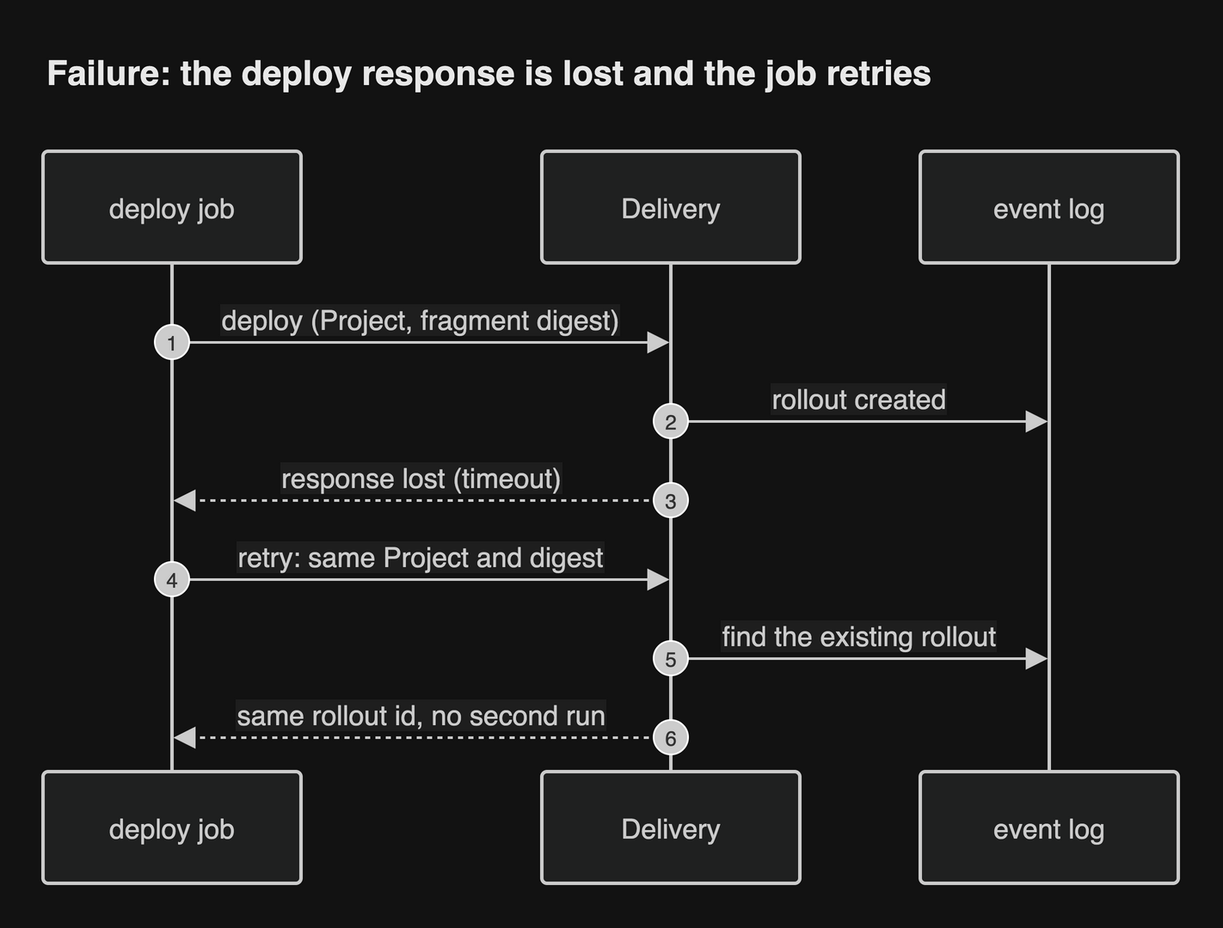
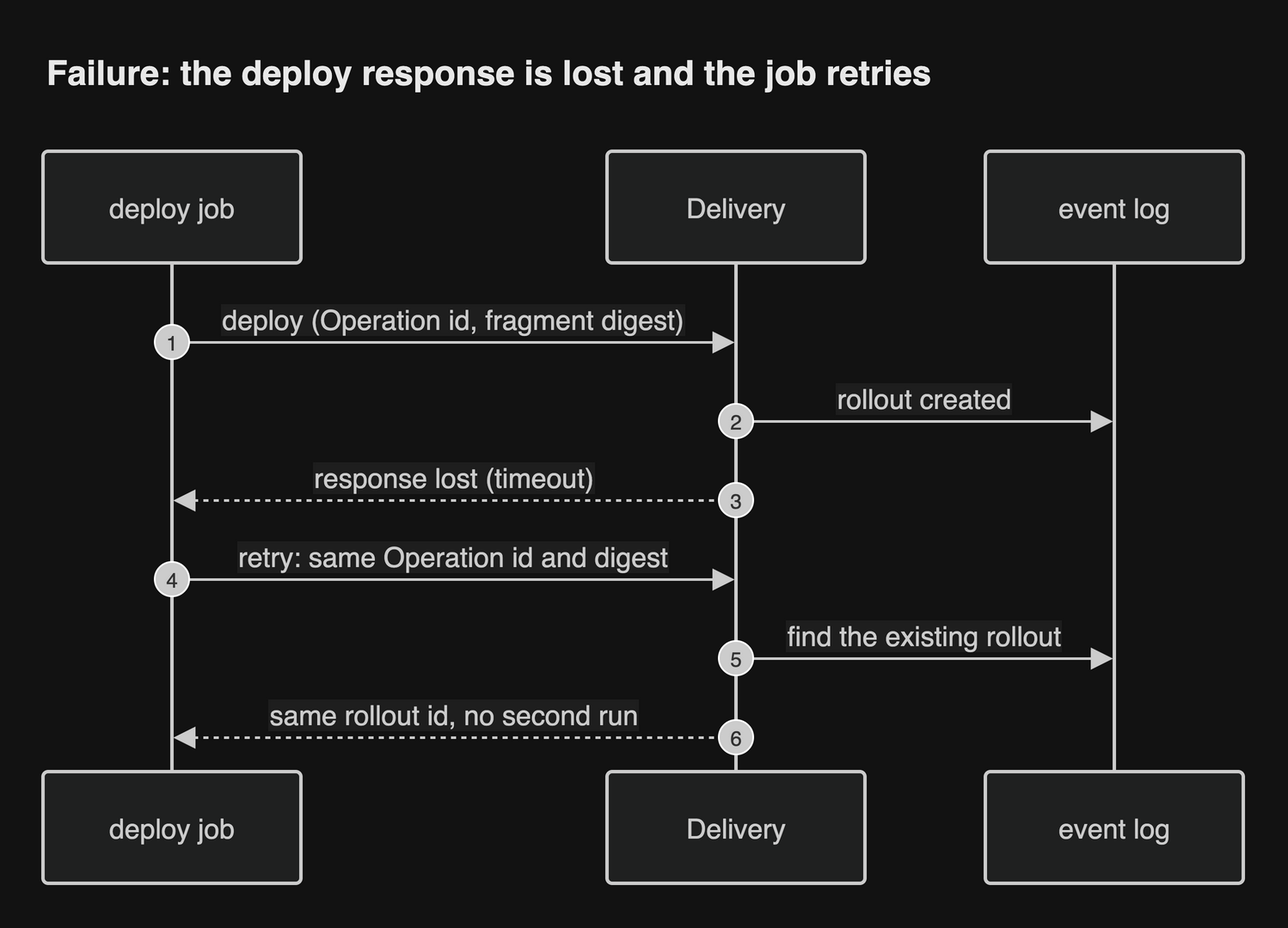
docs(records): reconcile the stale prose, pages and diagrams with the settled records

diff --git a/docs/diagrams/specs.py b/docs/diagrams/specs.py
@@ -132,8 +132,8 @@ sequence("seq-drift-check", "Nightly drift check",
           ("opt", "they differ", [("S", "G", "report the drift as an issue or a check")])])
 sequence("seq-fail-retry", "Failure: the deploy response is lost and the job retries",
          [("CI", "deploy job"), ("S", "Delivery"), ("DB", "event log")],
-         [("CI", "S", "deploy (Project, fragment digest)"), ("S", "DB", "rollout created"),
-          ("S", "CI", "response lost (timeout)", "reply"), ("CI", "S", "retry: same Project and digest"),
+         [("CI", "S", "deploy (Operation id, fragment digest)"), ("S", "DB", "rollout created"),
+          ("S", "CI", "response lost (timeout)", "reply"), ("CI", "S", "retry: same Operation id and digest"),
           ("S", "DB", "find the existing rollout"), ("S", "CI", "same rollout id, no second run", "reply")])
 sequence("seq-fail-stream", "Failure: the event stream drops and resumes",
          [("CI", "deploy job"), ("S", "Delivery"), ("DB", "event log")],
@@ -302,7 +302,7 @@ g.person("op", "Operator", "In a browser")
 g.group("ek", "estate-kit")
 g.system("cli", "estate-kit CLI", "Validates and plans offline", kind="container", tech="Rust, one binary", parent="ek")
 g.system("ui", "UI", "Rollouts, Projects, hosts", kind="container", tech="Vue, embedded in Observation", parent="ek")
-g.system("obs", "Observation", "Read-only views of what runs; creates and expires Silences", kind="container",
+g.system("obs", "Observation", "Read-only views of what runs; Silences and the cost ledger's rows", kind="container",
          tech="Rust, its own binary and Deployment", parent="ek")
 g.system("svc", "Delivery", "Composes, dry-runs, signs, streams rollouts, runs the Release Gate", kind="container",
          tech="Rust, links the compiler", parent="ek")

diff --git a/docs/design/code-shape-and-speed.md b/docs/design/code-shape-and-speed.md
@@ -290,7 +290,7 @@ A rule that no check can hold, such as a review rule, is written without a bold 
 | Prune protection test | A rendered namespace, a claim whose volume is `recoverable` or `irreplaceable`, a Mailbox, a bucket, a database or a rendered CRD lacks the prune-disabled mark, or a render in which a rendered CRD disappeared leaves its custom resources removable | [105](../decisions/0105-removal-is-a-retire-lifecycle-with-durable-retirement-tombstones-and-declared-moves-and-prune-protected-kinds-never-prune.md), [119](../decisions/0119-a-rendered-crd-is-prune-protected-and-retirement-tombstones-survive-a-crd-drop.md) | Render test, every run | planned, [#63](https://github.com/JorisJonkers-dev/estate-kit/issues/63) |
 | Retire refusal fixtures | The plan accepts a removal and an addition of one kind under one owner with no declared move or confirmed retirement, or treats a declared move as a retirement | [105](../decisions/0105-removal-is-a-retire-lifecycle-with-durable-retirement-tombstones-and-declared-moves-and-prune-protected-kinds-never-prune.md) | Compiler test, every run | planned, [#62](https://github.com/JorisJonkers-dev/estate-kit/issues/62) |
 | Retirement tombstone tests | A component deletes a durable object without a tombstone, before its grace period (30 days unless its policy says otherwise), or without a verified recovery copy; a cancelled retirement still deletes; restored data serves before the tombstones are applied; or a Retirement tombstone is removed with a dropped CRD | [105](../decisions/0105-removal-is-a-retire-lifecycle-with-durable-retirement-tombstones-and-declared-moves-and-prune-protected-kinds-never-prune.md), [119](../decisions/0119-a-rendered-crd-is-prune-protected-and-retirement-tombstones-survive-a-crd-drop.md) | Each component's tests, every run | planned, [#69](https://github.com/JorisJonkers-dev/estate-kit/issues/69) |
-| Restore procedure graph check | A step of the restore procedure names a dependency that is no step, the steps form a cycle, or a Durability class has no restore step | [106](../decisions/0106-the-control-plane-is-restored-in-a-dependency-order-that-is-tested-drilled-and-timed.md) | CI | planned, [#72](https://github.com/JorisJonkers-dev/estate-kit/issues/72) |
+| Restore procedure graph check | A step of the restore procedure names a dependency that is no step, the steps form a cycle, or a Recovery class has no restore step | [106](../decisions/0106-the-control-plane-is-restored-in-a-dependency-order-that-is-tested-drilled-and-timed.md) | CI | planned, [#72](https://github.com/JorisJonkers-dev/estate-kit/issues/72) |
 | Restore order rehearsal | The restore procedure, run on a throwaway cluster from backups alone, does not bring every Project back to Serving, or unsuspends a data-holding Project before its volumes are restored | [106](../decisions/0106-the-control-plane-is-restored-in-a-dependency-order-that-is-tested-drilled-and-timed.md) | CI, on every release | planned, [#72](https://github.com/JorisJonkers-dev/estate-kit/issues/72) |
 | Cold-rebuild drill record | The last drill on the real estate is older than a year, or its recorded time or data loss exceeds the targets | [106](../decisions/0106-the-control-plane-is-restored-in-a-dependency-order-that-is-tested-drilled-and-timed.md) | Scheduled job, alerting | planned, [#72](https://github.com/JorisJonkers-dev/estate-kit/issues/72) |
 | Policy edge pairing test | A rendered policy allows an egress with no matching ingress at the other end, or the reverse | [107](../decisions/0107-network-policy-moves-from-render-only-through-a-staged-or-audited-window-to-enforcement.md), [126](../decisions/0126-network-policy-is-enforced-on-kube-router-with-a-declared-rollback.md) | Compiler test, every run | planned, [#63](https://github.com/JorisJonkers-dev/estate-kit/issues/63) |
@@ -333,9 +333,13 @@ on it, so the crate graph decides the cost:
   survivor.
 - **Turned on per crate.** A crate joins the 100% gate when its tests are in;
   until then it reports ([process-5](../research/review/process-and-plan.md)).
-- **An equivalent mutant is a design smell.** It is rewritten, not excluded.
-  An exclusion in `.cargo/mutants.toml` needs a reason and an issue, and the
-  number of exclusions is held at zero by the ratchet.
+- **An equivalent mutant is a design smell.** It is rewritten where the code
+  can be made clearer; where it cannot, it may be excluded: an exclusion in
+  `.cargo/mutants.toml` names the one mutant, says why it is equivalent, and
+  links the pull request that reviewed it
+  ([record 111](../decisions/0111-decision-status-and-enforcement-status-are-separate.md)),
+  and the weekly full run reports the count of exclusions instead of holding it
+  at zero.
 
 ## Speed budgets
 

diff --git a/docs/design/end-to-end.md b/docs/design/end-to-end.md
@@ -11,7 +11,7 @@ handles it. If a step below names no crate, the design has a gap.
 | --- | --- | --- | --- | --- |
 | 1 | The `validate` job runs `estate-kit validate` on the checkout | `bins/estate-kit` → `compiler::validate` → `step-read`, `step-check` | None: offline | Diagnostics with code and model path; the CLI resolves each path to a line and writes annotations ([Errors in CI](errors-in-ci.md)) |
 | 2 | The release's `deploy` job builds images by digest, then calls `POST /deploys` with its GitHub OIDC token and the fragment digest | `http-api` | `ClaimPolicy` → `adapter-oidc` | 401 or 403 as problem+json; the claim policy's fixtures name each refusal |
-| 3 | The call is accepted idempotently on (Project, fragment digest), and the stream is authenticated by a GitHub token re-requested whenever one is needed | `delivery-app::Deploy` → `rollout::decide` | `EventStore` → `adapter-postgres` | A retry with the same key returns the same rollout ([record 23](../decisions/0023-a-rollout-is-an-append-only-event-log-on-the-shared-postgres.md)) |
+| 3 | The call is accepted idempotently on the caller's Operation id, and the stream is authenticated by a GitHub token re-requested whenever one is needed | `delivery-app::Deploy` → `rollout::decide` | `EventStore` → `adapter-postgres` | A retry with the same Operation id and fragment digest returns the same Operation; the same id with another digest is refused ([record 96](../decisions/0096-a-deploy-is-an-operation-that-ends-serving-held-refused-superseded-or-observation-lost.md)) |
 | 4 | The fragment is fetched and every image digest checked as registered by this Project | `delivery-app` | `Registry` → `adapter-ghcr` | `Unavailable` retries with backoff inside the adapter; a digest not registered is a refusal event |
 | 5 | The composition queue coalesces triggers and runs one composition | `rollout` (queue policy) and `delivery-app` (driver) | `JobStore` → `adapter-postgres` | The queue row survives a restart; after it, the writer re-observes and decides again ([record 73](../decisions/0073-the-composition-queue-is-a-row-in-a-postgres-job-table.md)) |
 | 6 | Every admitted Project's fragment is composed in-process, on a blocking thread, under a budget and a deadline | `compiler::compose` → `step-*`, `render-*`, `serialize` | `ClusterStateSource` → `adapter-kube` for the snapshot | A refused fragment is isolated and the others compose; a panic fails this composition only ([record 18](../decisions/0018-delivery-links-the-compiler.md)) |
@@ -30,15 +30,21 @@ call the `compiler` crate.
 ## A rollback
 
 1. An Operator signed in to the UI (rust-commons' sign-in kit; group claims map
-   to roles in Platform Intent) presses Roll back. `http-api` checks the route's
+   to roles in Platform Intent) presses Roll back and names the Environment,
+   which the call requires. The target offered is that Environment's
+   `lastServing`; an Operator may name an earlier digest that reached Serving
+   there. `http-api` checks the route's
    authorization row.
-2. `delivery-app::Rollback` takes the writer Lease (`adapter-kube`), finds the
-   last Serving render from the registry (`adapter-ghcr`), not from Postgres or
-   the event log, and dry-runs it (`adapter-kube`). It moves the tag back by
-   read, verify, write and re-reads it (`adapter-ghcr`, with the token from the
-   mounted Secret), then writes the Project's Pause object (`adapter-kube`). It
-   signs nothing and reads nothing from Vault or Postgres, so it works with
-   Vault down ([record 28](../decisions/0028-pause-and-rollback-are-a-cluster-object-per-project.md)).
+2. `delivery-app::Rollback` writes Paused and the target to `rollbackTo` in one
+   update of that Environment's ProjectControl (`adapter-kube`), takes the
+   writer Lease and dry-runs the target digest (`adapter-kube`). It then moves
+   that Environment's tag, `render/<project>:<env>`, to the digest by read,
+   verify, write and re-reads it (`adapter-ghcr`, with the token from the
+   mounted Secret), clears `rollbackTo`, and leaves the ProjectControl Paused.
+   It signs nothing and reads nothing from Vault or Postgres, so it works with
+   Vault down ([record 28](../decisions/0028-pause-and-rollback-are-a-cluster-object-per-project.md),
+   as [record 118](../decisions/0118-a-rollback-is-per-environment-and-targets-a-digest-that-reached-serving.md)
+   amended it).
 3. If that dry-run fails, it composes again from step 5 above, which is a
    Deploy and waits for Vault.
 

diff --git a/docs/design/security.md b/docs/design/security.md
@@ -64,7 +64,7 @@ or a Recovery class that has no entry.
 | Estate to a provider | Disclosure: a store of estate data sits at a provider controlled from outside the EU | Every store runs on an EU-controlled provider or on owned hardware; each exception, ghcr for renders and host tags, Project images and fragments, the forge, CI and DNS, is a dated row of the provider-and-exit table; the Provider register lint fails a store outside the rule ([record 116](../decisions/0116-every-store-of-estate-data-runs-on-an-eu-controlled-provider-or-on-owned-hardware.md), [record 133](../decisions/0133-ownership-decides-the-eu-rule-and-every-exception-ends-on-a-calendar-date.md)) |
 | Delivery to API | Elevation: the dry-run identity writes | A ValidatingAdmissionPolicy refuses every request from Delivery's identity unless `dryRun` is set, except a write to its writer Lease `estate-kit-writer` and to ProjectControl objects ([record 58](../decisions/0058-flux-is-locked-down-per-project-and-delivery-dry-runs-as-an-identity-that-cannot-write.md)). The Release Gate writes under a service account of its own, limited to Jobs and its gate ConfigMap ([record 74](../decisions/0074-the-release-gate-and-observation-each-have-a-named-write.md)) |
 | Application to Postgres | Elevation: an Application reads or changes another Tenant's rows | Shared tables with `tenant_id`, a row-level security policy on it and `FORCE ROW LEVEL SECURITY`; only the per-Project owner role has `BYPASSRLS`, used only by `migration-run` Jobs and the backup component; Application roles have no `BYPASSRLS` and own no table. The Tenant table lint, the Two-Tenant leak test and the Tenant role audit hold it ([record 114](../decisions/0114-multi-tenant-projects-keep-their-tenants-in-shared-tables-separated-by-row-level-security.md)) |
-| Observation to Alertmanager | Elevation: the read side deploys, pauses or rolls back | Observation is its own binary with no Vault, ghcr or signing credential; its one write creates and expires Silences, with a credential for that API alone ([record 50](../decisions/0050-six-bounded-contexts-in-five-layers.md), [record 74](../decisions/0074-the-release-gate-and-observation-each-have-a-named-write.md)) |
+| Observation to Alertmanager | Elevation: the read side deploys, pauses or rolls back | Observation is its own binary with no Vault, ghcr or signing credential; its named writes are the Silences and the cost ledger's rows, each with a narrow credential ([record 50](../decisions/0050-six-bounded-contexts-in-five-layers.md), [record 74](../decisions/0074-the-release-gate-and-observation-each-have-a-named-write.md), [record 92](../decisions/0092-capacity-is-in-the-resolved-deployment-cost-is-estimated-outside-the-render-key-and-recorded-from-bills.md)) |
 | Flux to API | Elevation: a signed render writes outside its Project | Flux lockdown; each Kustomization runs as its Project's service account in its target namespace; Pod Security and a digest-only image policy per Project (D4) |
 | Applier to cache | Tampering: a malicious closure | Nix signature checked against one trusted public key, whose private key is an environment-scoped secret limited to main with a reviewer (D10); the host tag is signed with the host signing key and binds the closure's store path |
 | Applier to API | Elevation: a node evicts other nodes' pods | Each node has its own credential, and a ValidatingAdmissionPolicy limits its evictions to pods whose `spec.nodeName` is its own node (D2); RBAC alone cannot |
@@ -100,7 +100,7 @@ refuses every other request from that identity
 ([record 58](../decisions/0058-flux-is-locked-down-per-project-and-delivery-dry-runs-as-an-identity-that-cannot-write.md)).
 The Release Gate writes under a service account of its own: it unsuspends a
 migration Job and writes one gate ConfigMap per Application, under the writer
-Lease. Observation's one write creates and expires Silences, with a credential
+Lease. Observation's writes are the named ones: Silences, with a credential
 for the Alertmanager silences API alone
 ([record 74](../decisions/0074-the-release-gate-and-observation-each-have-a-named-write.md)).
 Observation also appends cost ledger rows to its own Postgres schema, with a

diff --git a/docs/design/rust-workspace.md b/docs/design/rust-workspace.md
@@ -54,8 +54,10 @@ and its own port traits.
 The four earlier contexts stay and a fifth is added
 ([record 50](../decisions/0050-six-bounded-contexts-in-five-layers.md)): **Observation**, the read side the dashboard serves today. It ships as its own binary and
 Deployment with its own read-only adapters, and holds no Vault, ghcr or signing
-credential. Its one write is Alertmanager silences, with a credential for that
-API alone ([record 74](../decisions/0074-the-release-gate-and-observation-each-have-a-named-write.md)). It holds
+credential. Its writes are the ones [record 74](../decisions/0074-the-release-gate-and-observation-each-have-a-named-write.md) names, with
+[record 92](../decisions/0092-capacity-is-in-the-resolved-deployment-cost-is-estimated-outside-the-render-key-and-recorded-from-bills.md)'s
+addition: Alertmanager silences under their own credential, and the cost
+ledger's rows under a role for that schema alone. It holds
 no credential that can deploy, pause or roll back, as estate-dashboard holds
 none now; keeping it out of Delivery's process keeps the rollout core free
 of Prometheus, Loki and Alertmanager, and keeps Delivery's credentials out
@@ -80,7 +82,7 @@ not wired to this context, as Observation keeps its own kube adapter.
 | --- | --- | --- | --- |
 | Compiler | The model: Intent in, Resolved Deployment, Deliverable Set out | Project; the Estate is the set of admitted Projects | Its application crate's use cases (`validate`, `plan`, `compose`, `render_hosts`, `generate`) |
 | Delivery | Rollouts, compositions, admission, Pause and Rollback, the close observation of Flux, the Release Gate (with its Job unsuspend and per-Application record, under the writer Lease: [record 74](../decisions/0074-the-release-gate-and-observation-each-have-a-named-write.md)) | Rollout (event-sourced); Composition | The compiler's use cases, called in-process ([record 18](../decisions/0018-delivery-links-the-compiler.md)) |
-| Observation | What runs and how it is doing: units, pods, containers, alerts and silences, logs, health, checks | None: read models only, and Silences as its one write | Ports onto Prometheus, Loki, Alertmanager, Gatus and the cluster; rollout history from Delivery's API |
+| Observation | What runs and how it is doing: units, pods, containers, alerts and silences, logs, health, checks | None: read models only, and Silences and the cost ledger's rows as its writes | Ports onto Prometheus, Loki, Alertmanager, Gatus and the cluster; rollout history from Delivery's API |
 | Hosts | Generations and their rollout across nodes | NodeRollout | Signed host tags only; never a model type |
 | Components | Migration runs, secret grants, database and bucket catalogs, backups, Mailboxes | One per component: MigrationRun, SecretGrant, DatabaseGrant, BucketGrant, BackupGeneration, Mailbox | Rendered objects only |
 | Tenancy | Tenants and their Tenant operations, Tenant hooks, the operation log | Tenant | The Tenant custom resource, which the Components reconcile; the lifecycle API on Delivery's HTTP surface |
@@ -186,7 +188,7 @@ crates/
     observation-app/          application: the dashboard's read models and their ports
     adapter-prometheus/       health and rollout metrics (read only)
     adapter-loki/             logs and streams (read only)
-    adapter-alertmanager/     alerts and history, read; Silences, the one write, under its own credential
+    adapter-alertmanager/     alerts and history, read; Silences, under their own credential
     adapter-gatus/            checks (read only)
     adapter-observation-kube/ read-only watches of units, pods and containers, with its own service account; Delivery's adapter-kube is not wired to this context
     adapter-delivery-api/      rollout history and events, read from Delivery's HTTP API

diff --git a/docs/decisions/0050-six-bounded-contexts-in-five-layers.md b/docs/decisions/0050-six-bounded-contexts-in-five-layers.md
@@ -14,6 +14,8 @@ Amended by [record 104](0104-every-reconciler-estate-kit-owns-passes-crash-point
 the foundation's `testkit` crate gains the crash-point harness that every
 reconciler passes before it takes production responsibility.
 
+Revised: 2026-11-05: Observation's writes are named, not counted as one: the Silences and, as [record 92](0092-capacity-is-in-the-resolved-deployment-cost-is-estimated-outside-the-render-key-and-recorded-from-bills.md) added it, the cost ledger's rows, each under its own narrow credential.
+
 ## Context
 
 The design named four contexts: compiler, service, host applier and
@@ -74,16 +76,18 @@ Observation ships as its own binary and its own Deployment, with its own
 read-only adapters: its own kube adapter, and adapters for Prometheus, Loki,
 Alertmanager and Gatus. It does not link Delivery's adapters. It holds no
 Vault, ghcr or signing credential and none that can deploy, pause or roll
-back. Its one write, creating and expiring Silences, uses the narrow
-credential that [record 74](0074-the-release-gate-and-observation-each-have-a-named-write.md)
-names. The boundary therefore holds at the process level as well as the crate
+back. Its writes are the ones [record 74](0074-the-release-gate-and-observation-each-have-a-named-write.md)
+names — as [record 92](0092-capacity-is-in-the-resolved-deployment-cost-is-estimated-outside-the-render-key-and-recorded-from-bills.md)
+added it, creating and expiring Silences, and appending the cost ledger's
+rows — each under its own narrow credential. The boundary therefore holds at
+the process level as well as the crate
 level.
 
 ## Alternatives
 
 | Option | Cost if taken | Why rejected |
 | --- | --- | --- |
-| Four contexts, the read views inside Delivery | Prometheus, Loki and Alertmanager clients beside the rollout core; read code near credentials that write | The read side holds no credential that can deploy; its one write is silences, under its own narrow credential |
+| Four contexts, the read views inside Delivery | Prometheus, Loki and Alertmanager clients beside the rollout core; read code near credentials that write | The read side holds no credential that can deploy; its writes are silences and the cost ledger's rows, each under its own narrow credential |
 | Observation a context but in Delivery's binary | Delivery's Vault, ghcr and signing credentials share a process with the read adapters; one Deployment, one set of mounted secrets | A crate boundary does not stop a credential being read in the same process |
 | One context | Nothing stops the host applier importing model types | The applier must work when the cluster and the compiler are not there |
 | One crate per binary, modules for layers | Visibility only by `pub(crate)`; every change rebuilds the binary's whole crate; mutants rebuild everything | The compile and mutation cost the maintainer named |

diff --git a/docs/design/overview.md b/docs/design/overview.md
@@ -35,7 +35,7 @@ signs and moves the Project's `prod` tag. Flux pulls the tag and applies it.
 Observation, the read side the dashboard serves today, is its own binary and
 Deployment, so Delivery's Vault, ghcr and signing credentials never share a
 process with it ([record 50](../decisions/0050-six-bounded-contexts-in-five-layers.md)). Its
-one write is Alertmanager silences; the Release Gate's two writes belong to Delivery ([record 74](../decisions/0074-the-release-gate-and-observation-each-have-a-named-write.md)).
+writes are the ones [record 74](../decisions/0074-the-release-gate-and-observation-each-have-a-named-write.md) names, with the cost ledger's rows [record 92](../decisions/0092-capacity-is-in-the-resolved-deployment-cost-is-estimated-outside-the-render-key-and-recorded-from-bills.md) added; the Release Gate's two writes belong to Delivery ([record 74](../decisions/0074-the-release-gate-and-observation-each-have-a-named-write.md)).
 
 ## The parts of estate-kit
 
@@ -122,7 +122,9 @@ The full plan, with budgets, exits and fallbacks per phase, is
 - **Open:** the shadow's exit rule, fixed in
   [#50](https://github.com/JorisJonkers-dev/estate-kit/issues/50) before the
   shadow starts.
-- **Proposed:** Pause and Rollback are one `ProjectControl` custom resource
-  per Project, written only by Delivery ([record 28](../decisions/0028-pause-and-rollback-are-a-cluster-object-per-project.md));
-  its record is not yet accepted.
+- One `ProjectControl` custom resource per Project and [Environment](../../CONTEXT.md),
+  written only by Delivery: whether the Project is Paused there, the digest
+  `rollbackTo` names while a Rollback runs, and a monotone `lastServing`
+  ([record 28](../decisions/0028-pause-and-rollback-are-a-cluster-object-per-project.md),
+  amended by [record 118](../decisions/0118-a-rollback-is-per-environment-and-targets-a-digest-that-reached-serving.md)).
 - **Open:** how a Mailbox is shared beyond its own Project, if ever.

diff --git a/docs/design/identity-and-access.md b/docs/design/identity-and-access.md
@@ -17,7 +17,7 @@ refuses GitHub App tokens ([review](../research/review/README.md) D3). It lives 
 | Delivery to ghcr | A machine account's classic PAT, synced by the Vault Secrets Operator into a Kubernetes Secret Delivery mounts, so a tag move never reads Vault | Write only on the render and host packages; a check fails on any other grant; rotated on a schedule (D3) |
 | Service to the API server | Its own service account | Dry-run only: a ValidatingAdmissionPolicy refuses a write by Delivery's identity without `dryRun` other than to its writer Lease, by its name, and to ProjectControl objects ([record 17](../decisions/0017-delivery-runs-in-the-cluster-in-rust.md), [record 58](../decisions/0058-flux-is-locked-down-per-project-and-delivery-dry-runs-as-an-identity-that-cannot-write.md)) |
 | Release Gate to the API server | A service account of its own | Patch migration Jobs and write one record ConfigMap per Application, under the writer Lease ([record 74](../decisions/0074-the-release-gate-and-observation-each-have-a-named-write.md)) |
-| Observation to Alertmanager | A credential for the silences API only | Create and expire silences, nothing else ([record 74](../decisions/0074-the-release-gate-and-observation-each-have-a-named-write.md)) |
+| Observation to Alertmanager | A credential for the silences API only | Create and expire silences, and append the cost ledger's rows in its own schema ([record 74](../decisions/0074-the-release-gate-and-observation-each-have-a-named-write.md), [record 92](../decisions/0092-capacity-is-in-the-resolved-deployment-cost-is-estimated-outside-the-render-key-and-recorded-from-bills.md)) |
 | Host applier to the API server | A credential per node | Cordon, evict and the rollout Lease, limited by policy to its own node (D2) |
 
 The write boundary, one place, is in [Security](security.md#the-write-boundary),

diff --git a/docs/decisions/0108-active-checks-run-in-the-owning-components-observation-reads-their-results-and-one-heartbeat-lives-outside-the-cluster.md b/docs/decisions/0108-active-checks-run-in-the-owning-components-observation-reads-their-results-and-one-heartbeat-lives-outside-the-cluster.md
@@ -12,12 +12,17 @@ the dead-man switch's grace exceeds the longest planned reboot and is stated in
 minutes, and alerts also leave the estate on a phone push app whose delivery
 the yearly drill confirms by hand.
 
+Revised: 2026-11-05: Observation's writes are named, not counted as one: the Silences and, as [record 92](0092-capacity-is-in-the-resolved-deployment-cost-is-estimated-outside-the-render-key-and-recorded-from-bills.md) added it, the cost ledger's rows.
+
 ## Context
 
-Observation is its own process, reads, and has one named write: it creates and
-expires Alertmanager silences
-([record 50](0050-six-bounded-contexts-in-five-layers.md),
-[record 74](0074-the-release-gate-and-observation-each-have-a-named-write.md)).
+Observation is its own process, reads, and its named writes are the ones
+[record 74](0074-the-release-gate-and-observation-each-have-a-named-write.md)
+names, with
+[record 92](0092-capacity-is-in-the-resolved-deployment-cost-is-estimated-outside-the-render-key-and-recorded-from-bills.md)'s
+addition: it creates and expires Alertmanager silences, and appends the cost
+ledger's rows in its own schema
+([record 50](0050-six-bounded-contexts-in-five-layers.md)).
 It holds no credential that can deploy, pause or roll back.
 
 Some failures are silent. "Mutiny! How does Kubernetes fail, and what can we do
@@ -87,7 +92,7 @@ service is still preferred.
 ## Consequences
 
 - Easier: a backup that cannot be restored, or mail that cannot be delivered, is
-  found on a schedule; Observation keeps one write; a silent cluster pages.
+  found on a schedule; Observation keeps only its named writes; a silent cluster pages.
 - Harder: `backup` and `mailbox` each schedule, run and publish a check; the
   heartbeat depends on a hosted service and its account.
 - Forbidden: an active check in Observation; a credential or a write for

diff --git a/CONTEXT.md b/CONTEXT.md
@@ -32,7 +32,7 @@ The one route by which live facts reach a render: Delivery captures them, digest
 _Avoid_: cluster facts, live state, cluster inventory
 
 **Render signing key**:
-The Vault Transit key that signs `render/<project>:prod`. Flux verifies renders against it. Delivery's Vault policy may use it only for that path; it never signs a host tag.
+The Vault Transit key that signs each of a Project's Environment tags (`render/<project>:<env>`, production's among them). Flux verifies renders against it. Delivery's Vault policy may use it only for that tag pattern; it never signs a host tag.
 _Avoid_: render key, Transit key
 
 **Host signing key**:
@@ -104,7 +104,7 @@ The digest each Rollout event row carries of the stored content of the row befor
 _Avoid_: parent hash, chain hash, event hash
 
 **Observation**:
-The context that shows what runs and how it is doing: units, pods, containers, alerts and silences, logs, health and checks. It reads, except that it creates and expires Alertmanager silences with a credential for that API alone. It holds no credential that can deploy, pause or roll back.
+The context that shows what runs and how it is doing: units, pods, containers, alerts and silences, logs, health and checks. It reads, except for its named writes: it creates and expires Alertmanager silences with a credential for that API alone, and appends the cost ledger's rows in its own schema, each with a credential for that write alone ([record 74](docs/decisions/0074-the-release-gate-and-observation-each-have-a-named-write.md), as [record 92](docs/decisions/0092-capacity-is-in-the-resolved-deployment-cost-is-estimated-outside-the-render-key-and-recorded-from-bills.md) added it). It holds no credential that can deploy, pause or roll back.
 _Avoid_: dashboard backend, monitoring
 
 **Viewer**:

diff --git a/docs/decisions/0023-a-rollout-is-an-append-only-event-log-on-the-shared-postgres.md b/docs/decisions/0023-a-rollout-is-an-append-only-event-log-on-the-shared-postgres.md
@@ -11,6 +11,8 @@ Amended by [record 96](0096-a-deploy-is-an-operation-that-ends-serving-held-refu
 
 Amended by [record 145](0145-every-rollout-event-row-carries-a-predecessor-digest.md): each row carries the digest of the row before it in the same Rollout, and an append whose predecessor digest does not name the last row the writer read is refused.
 
+Revised: 2026-11-05: the rejected `Idempotency-Key` alternative's reason now names the Operation id ([record 96](0096-a-deploy-is-an-operation-that-ends-serving-held-refused-superseded-or-observation-lost.md)) as the key that is already there, not the project and fragment digest.
+
 ## Context
 
 A rollout is a deploy run that streams Delivery's work to the deploy job.
@@ -75,7 +77,7 @@ cluster and the registry.
 | Build the upcaster now | Code and tests for a lift nothing needs | There is one version; build it with the second |
 | One role for append and retention | Delivery could delete events | The append-only rule would rest on discipline, not a grant |
 | Reconstructed events look like any other | A reader cannot tell a seen event from an inferred one | The log's honesty after a crash is lost |
-| An `Idempotency-Key` header on deploy calls | A header standard whose draft expired, beside a key that already exists | The natural key, project and fragment digest, is already there |
+| An `Idempotency-Key` header on deploy calls | A header standard whose draft expired, beside a key that already exists | The Operation id the caller mints is already there ([record 96](0096-a-deploy-is-an-operation-that-ends-serving-held-refused-superseded-or-observation-lost.md)) |
 | Rewrite events in place when their shape changes | History stops being immutable | Events are upcast on read and hold no personal data, so nothing needs erasing |
 
 ## Consequences

diff --git a/docs/decisions/0021-renders-and-host-tags-are-signed-by-separate-keys-with-an-offline-recovery-key.md b/docs/decisions/0021-renders-and-host-tags-are-signed-by-separate-keys-with-an-offline-recovery-key.md
@@ -11,6 +11,8 @@ Amended by [record 140](0140-break-glass-custody-is-written-and-drilled-and-a-na
 
 Revised: 2026-11-05: a host tag is now a numbered, immutable `host/<node>:<number>` tag, so the host signing key signs each publication, not a moving `:prod` tag.
 
+Revised: 2026-11-05: the render signing key signs every Environment's `render/<project>:<env>` tag — production's among them ([record 28](0028-pause-and-rollback-are-a-cluster-object-per-project.md), amended by [record 118](0118-a-rollback-is-per-environment-and-targets-a-digest-that-reached-serving.md)); its Vault policy path is the Environment tag pattern, not only `:prod`.
+
 ## Context
 
 The first design signed renders and host tags with one Vault Transit key. A
@@ -24,10 +26,12 @@ any workflow could read it. How the closures are built and cached is
 
 ## Decision
 
-- **Two Transit keys.** The render signing key signs `render/<project>:prod`
-  artifacts; the host signing key signs each node's numbered
-  `host/<node>:<number>` tag. Delivery's Vault policy can use
-  each only for its own signing path.
+- **Two Transit keys.** The render signing key signs each Environment's
+  `render/<project>:<env>` tag, production's `render/<project>:prod` among
+  them ([record 28](0028-pause-and-rollback-are-a-cluster-object-per-project.md),
+  amended by [record 118](0118-a-rollback-is-per-environment-and-targets-a-digest-that-reached-serving.md));
+  the host signing key signs each node's numbered `host/<node>:<number>` tag.
+  Delivery's Vault policy can use each only for its own signing path.
 - **An environment-scoped cache signing key.** The key that signs the binary
   cache's closures is a GitHub environment secret, usable only on `main` and
   only after a reviewer approves the run. Nodes trust its public half through
